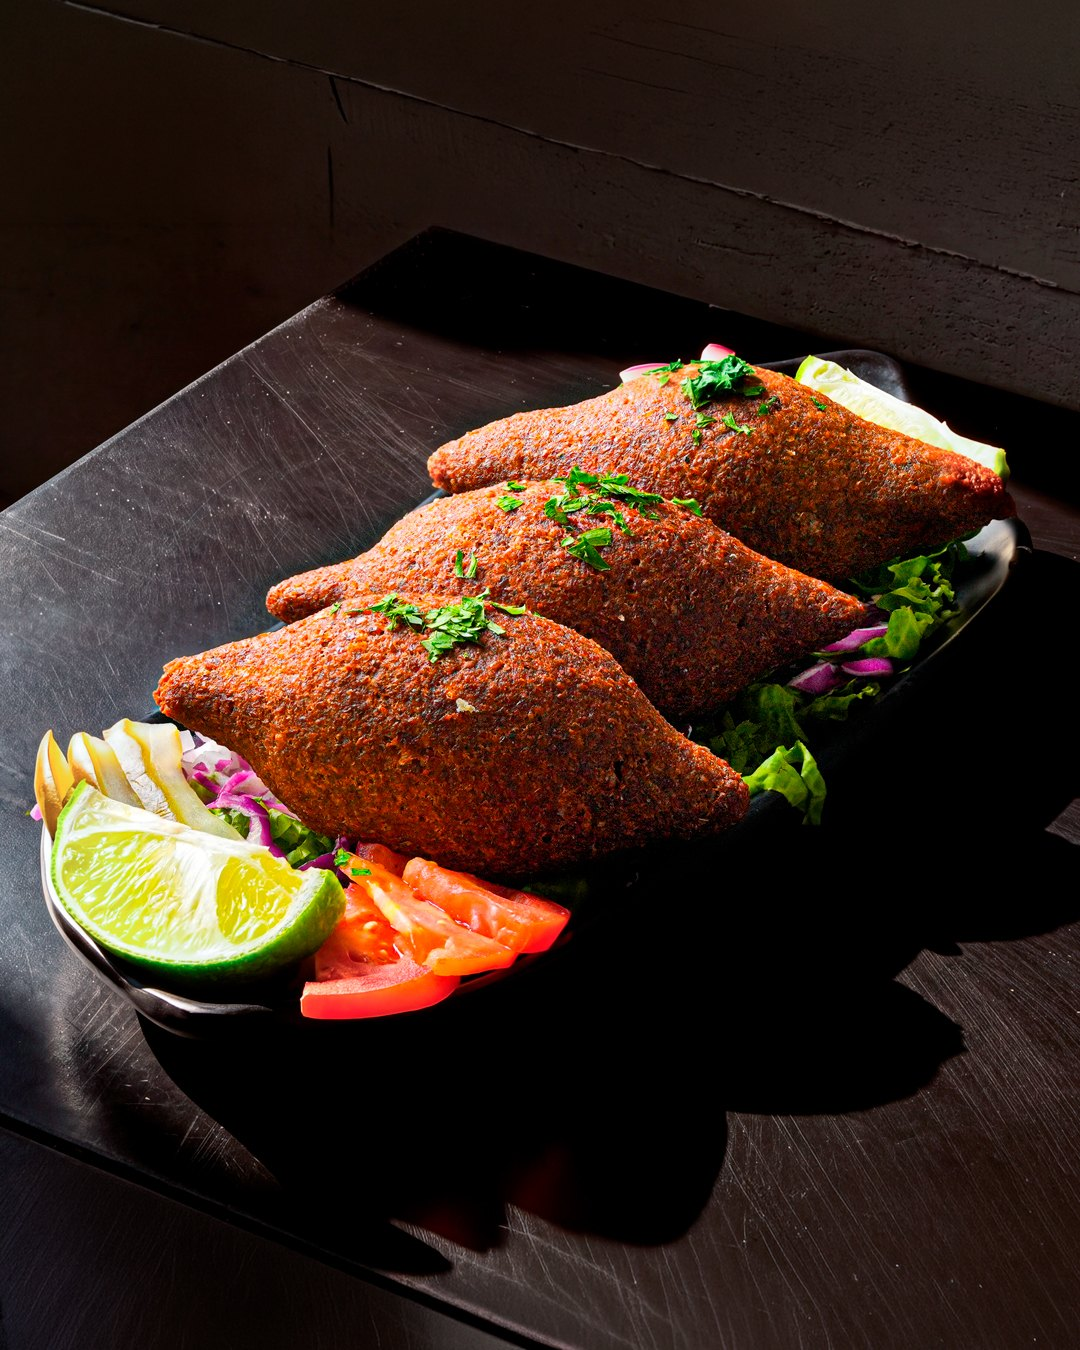
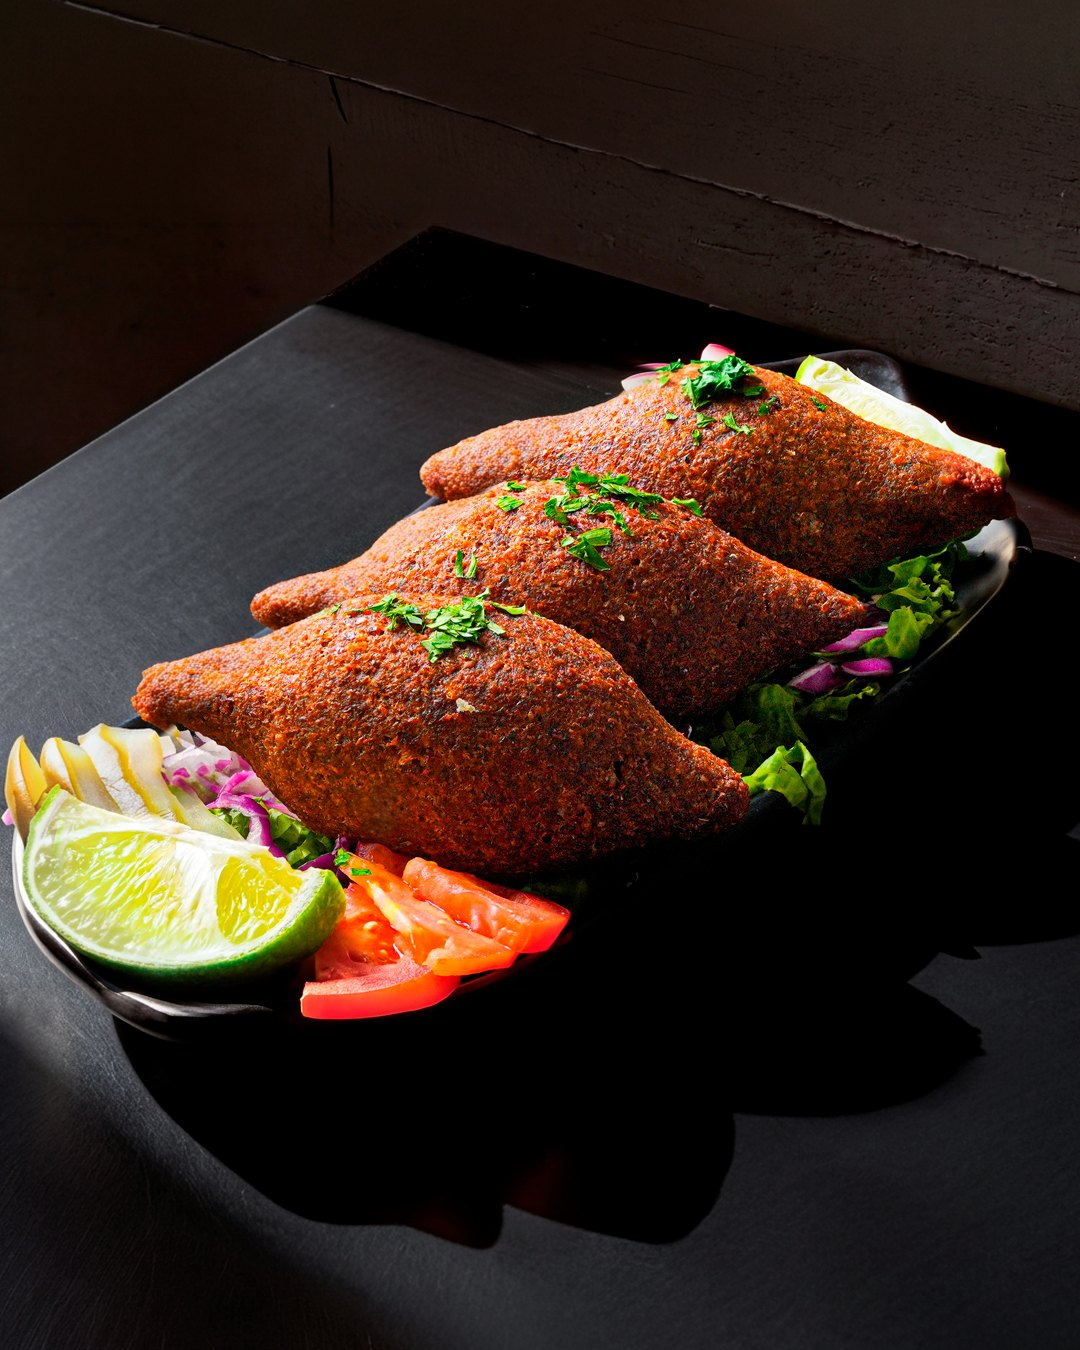
Yasmine: atualiza foto 1 do carrossel 05
Claude-Session: https://claude.ai/code/session_01Y3VWB5AakMQg7nFhwvDpAo

diff --git a/public/yasmine/index.html b/public/yasmine/index.html
@@ -379,7 +379,7 @@ textarea{width:100%;min-height:70px;resize:vertical;background:var(--ink);color:
     {"id":"02","date":"","format":"carrossel","images":["img/02-1.jpg","img/02-2.jpg","img/02-3.jpg"],"caption":"Legenda em breve."},
     {"id":"03","date":"","format":"reels","video":"vid/03.mp4","images":["img/03-1.jpg"],"caption":"Legenda em breve."},
     {"id":"04","date":"","format":"reels","video":"vid/04.mp4?v=2","images":["img/04-1.jpg?v=4"],"caption":"Legenda em breve."},
-    {"id":"05","date":"","format":"carrossel","images":["img/05-1.jpg?v=2","img/05-2.jpg"],"caption":"Legenda em breve."},
+    {"id":"05","date":"","format":"carrossel","images":["img/05-1.jpg?v=3","img/05-2.jpg"],"caption":"Legenda em breve."},
     {"id":"06","date":"","format":"reels","video":"vid/06.mp4","images":["img/06-1.jpg"],"caption":"Legenda em breve."},
     {"id":"07","date":"","format":"carrossel","images":["img/07-2.jpg","img/07-1.jpg","img/07-3.jpg"],"caption":"Legenda em breve."},
     {"id":"08","date":"","format":"reels","video":"vid/08.mp4","images":["img/08-1.jpg"],"caption":"Legenda em breve."},
